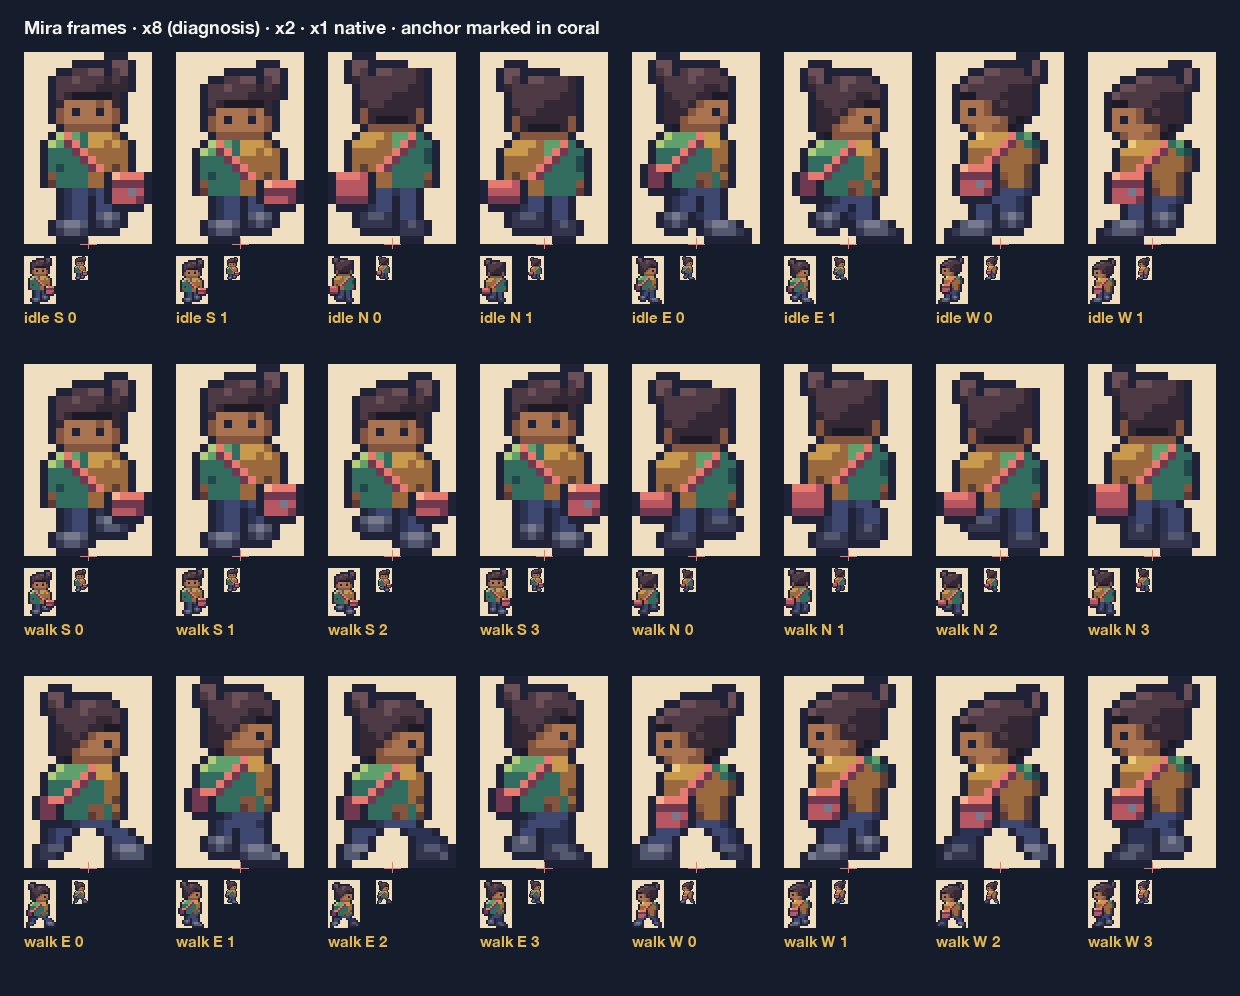
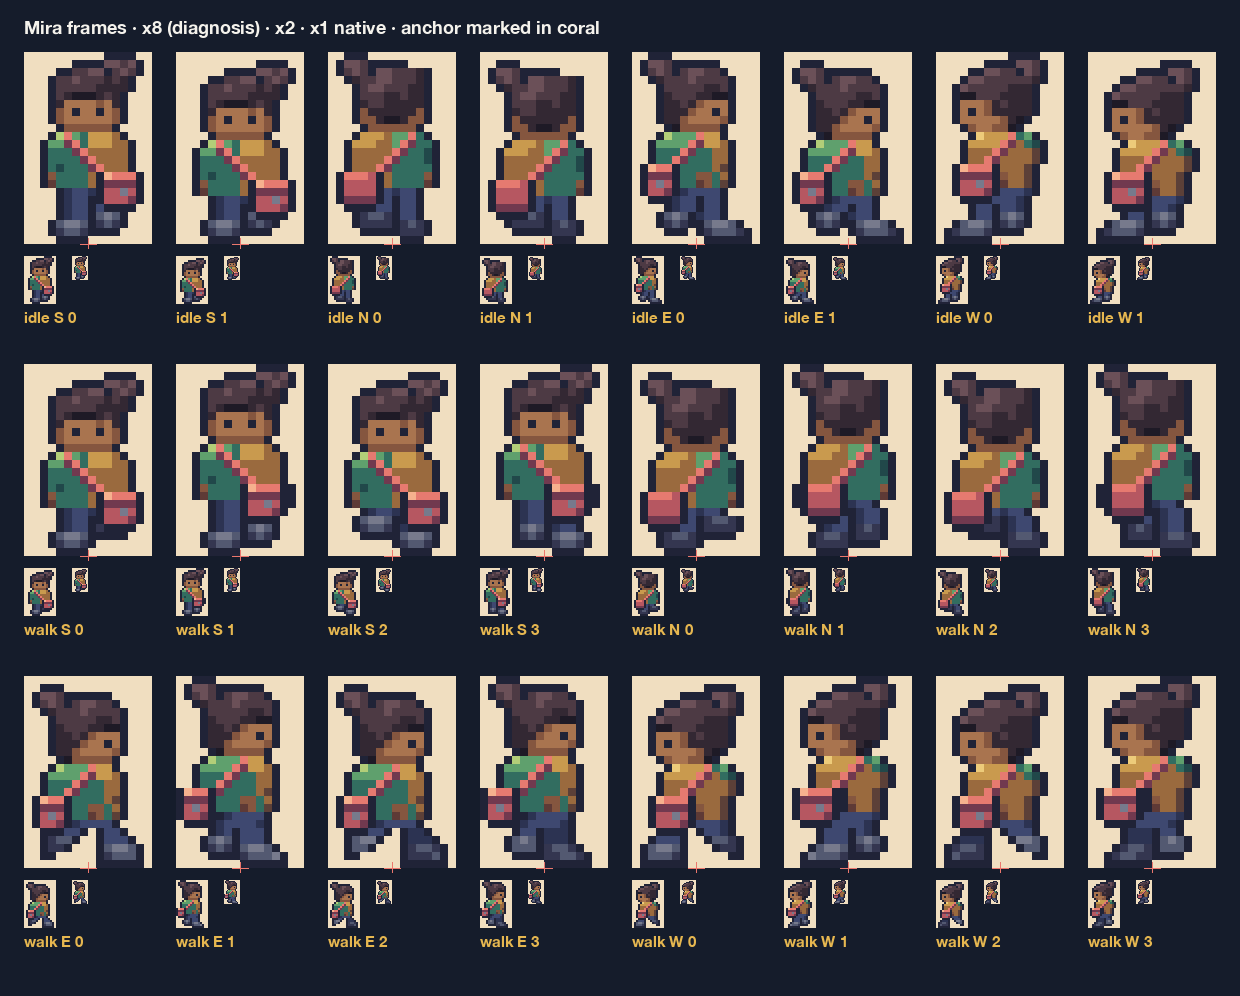
feat(art): approve Mira sprites and add production status guide

diff --git a/art-direction/cast/mira_sprites.py b/art-direction/cast/mira_sprites.py
@@ -1,6 +1,6 @@
 """Mira (courier) frames, hand-placed at 16x24 logical px.
 
-Status: REVIEW_REQUIRED. Built on the approved person rules (Gate 1 spec)
+Status: APPROVED 2026-10-02. Built on the approved person rules (Gate 1 spec)
 and the cast frame rule (IVO_SPEC.md). Spec: MIRA_SPEC.md.
 """
 import os
@@ -33,21 +33,21 @@ SLOTS = {"hair": "ABCD", "skin": "klmn", "jacket": "wxyzEFGH", "trousers": "OP"}
 # S: puff on her left (screen-right); green panel on her right (screen-left);
 # strap from her right shoulder down to the bag at her left hip (screen-right).
 S = [
-    "..........ooo...",
-    "......oooooDDo..",
-    "....ooCCDDoCDo..",
+    "..........oooo..",
+    "......ooooDDCDo.",
+    "....ooCCDDoCDCo.",
     "...oCCDCCCBCBo..",
     "...oCCCCCBBBBo..",
-    "...oCBAAAAABo...",
+    "...oCBAAABCBo...",
     "...oBnnnnmnBo...",
     "...omnonnonmo...",
     "...omnnnnnnmo...",
     "....ommmmmmo....",
     "...oHeGFyyyxo...",
-    "..oHGdeFyyxyxo..",
+    "..oGGdeFyyyxxo..",
     "..oGGFdeyyxyxo..",
     "..oGFFFdeyxyxo..",
-    "..oFEFFFdexwxo..",
+    "..oFEFFFdexxxo..",
     "..omFFFFxxoeffo.",
     "..olFFFFxxodeeo.",
     "....oOPPOPocddo.",
@@ -62,21 +62,21 @@ S = [
 # N: puff at screen-left; green panel at screen-right; strap's back runs from
 # screen-right shoulder to the bag at screen-left hip.
 N = [
-    "...ooo..........",
-    "..oDDooooo......",
-    "..oDCoDDCCCBo...",
-    "..oBCCCCCCCBo...",
-    "...oCCCCCCBBo...",
-    "...oCCCCBBBBo...",
+    "..ooo...........",
+    ".oDDCooooo......",
+    ".oCDCoDDCCCBo...",
+    "..oBCCDDCCCBo...",
+    "...oCDDCCCBBo...",
+    "...oCCCBBCBBo...",
     "...oBCCBBBBBo...",
     "...omBBBBBBmo...",
-    "...omBAAAABmo...",
+    "...ommBAABmmo...",
     "....ommmmmmo....",
     "...oyyyxGGeFo...",
     "..oyyyxxGedFFo..",
     "..oyyxxxedGFEo..",
     "..oyxxxedFFFEo..",
-    "..oxwxedFFFFFo..",
+    "..oxxxedFFFFFo..",
     ".oeffoxxFFFFmo..",
     ".oeedoxxFFFFlo..",
     ".oddcoPPOPPo....",
@@ -91,9 +91,9 @@ N = [
 # E: head 1 px ahead of the body (the lean); green near flank and sleeve;
 # strap from the near shoulder back to the bag on the far hip, showing behind.
 E = [
-    "...ooo..........",
-    "..oDDoooooo.....",
-    "..oCDoCDDCCo....",
+    "..ooo...........",
+    ".oDDCoooooo.....",
+    ".oCDCoCDDCCo....",
     "..oBCCCDCCCCo...",
     "...oCCCCCBBCo...",
     "...oBCCCBBAAo...",
@@ -102,7 +102,7 @@ E = [
     "...oBBmnnnnmo...",
     "....oAmmmmmo....",
     "...oHGGGeyyo....",
-    "..oHGGGedyyxo...",
+    "..oGGGGedyyxo...",
     "..oGGGedFFyxo...",
     "..oGGedGFFyxo...",
     ".oceedGGFFxwo...",
@@ -120,9 +120,9 @@ E = [
 # W: head 1 px ahead (left); ochre near flank; bag on the near hip, forward of
 # the body edge; strap from the far shoulder down across the chest to the bag.
 W = [
-    "..........ooo...",
-    "......ooooooDo..",
-    "....ooDDCCCoDo..",
+    ".........oooo...",
+    "......ooooDDCo..",
+    "....ooDDCCoDCo..",
     "...oDDCCCCCCBo..",
     "..oDCCCCCBBBo...",
     "..oAACCCBBBBo...",
@@ -150,81 +150,80 @@ W = [
 # line, a buckle, a #B65761 body (never the marker coral), a lit lip.
 BAG_FRONT = ["ofeeeo", "occcco", "oddUdo", "odddco", ".oooo."]
 BAG_BACK = ["oeeedo", "oddddo", "oddddo", "occcco", ".oooo."]
+BAG_SIDE = ["ofeeo", "occco", "odUdo", "oddco", ".ooo."]   # far hip, behind the body
+# facing: (top row, rest column, swing dx on passing frames, art)
 BAGS = {
-    "s": (15, 10, BAG_FRONT),   # her left hip, screen-right
-    "n": (15, 0, BAG_BACK),     # her left hip seen from behind, screen-left
-    "w": (14, 2, BAG_FRONT),    # near hip, forward of the body edge
-}  # "e": the bag is on the far hip, drawn behind the body in the grid
+    "s": (15, 9, -1, BAG_FRONT),   # her left hip, screen-right; swings in toward her
+    "n": (15, 1, 1, BAG_BACK),     # her left hip from behind, screen-left
+    "e": (14, 1, -1, BAG_SIDE),    # far hip, trailing behind her back
+    "w": (14, 2, -1, BAG_FRONT),   # near hip, forward of the body edge
+}
+GLINT_LIMITS = {"z": 1, "H": 1, "f": 1}  # enforced by check_gate1.py
 
 
-def finish(frame, facing):
+def lower(frame):
+    """1 px settle: head and torso down, dropping the top leg row. The bag is
+    painted afterwards at the same 1 px offset, so it never changes shape."""
+    return ["." * 16] + frame[0:18] + frame[19:24]
+
+
+def finish(frame, facing, dy=0, swing=False):
     """Panel fills step down away from the lit shoulder, the strap shadow is the
-    coral contour step, and the bag is painted on top."""
+    coral contour step, and the bag is painted on top (offset by dy, swung by 1 px)."""
     out = []
     for y, row in enumerate(frame):
-        if 12 <= y <= 17:
+        if 12 + dy <= y <= 17 + dy:
             row = row.replace("y", "x").replace("G", "F")
-        if 10 <= y <= 17:
+        if 10 + dy <= y <= 17 + dy:
             row = row.replace("d", "c")
         out.append(row)
-    if facing in BAGS:
-        r0, c0, bag = BAGS[facing]
-        for i, line in enumerate(bag):
-            row = list(out[r0 + i])
-            for j, ch in enumerate(line):
-                if ch != ".":
-                    row[c0 + j] = ch
-            out[r0 + i] = "".join(row)
+    r0, c0, dx, bag = BAGS[facing]
+    c0 += dx if swing else 0
+    for i, line in enumerate(bag):
+        row = list(out[r0 + dy + i])
+        for j, ch in enumerate(line):
+            if ch != ".":
+                row[c0 + j] = ch
+        out[r0 + dy + i] = "".join(row)
     return out
 
 
-# Longer side-view stride than the shared poses (feet one column further apart).
+# Mira's energy in the side walk comes from the trailing heel lifting off; the
+# stride stays inside the approved Gate 1 overhead limit (columns 2-14).
 STRIDE_C0 = [
     "....oOPPoPPPo...",
-    "..oOPPo..oPPPo..",
-    "..oOPo....oPPPo.",
-    ".oSTTo....oTUUTo",
-    ".oSSo.....oSTTTo",
-    ".oo.......oooooo",
+    "...oOPPo.oPPo...",
+    "..oSTTo..oPPPo..",
+    "..oSSo...oTUUTo.",
+    "..oo.....oSTTTo.",
+    ".........oooooo.",
 ]
 STRIDE_C2 = [
     "....oPPPoOOOo...",
-    "..oPPPo..oOOOo..",
-    "..oPPo....oOOOo.",
-    ".oTUUo....oSTTSo",
-    ".oTTo.....oSSSTo",
-    ".oo.......oooooo",
+    "...oPPPo.oOOo...",
+    "..oTUUo..oOOOo..",
+    "..oTTo...oSTTSo.",
+    "..oo.....oSSSTo.",
+    ".........oooooo.",
 ]
 SIDE = (STRIDE_C0, eng.LEG_P1, STRIDE_C2, eng.LEG_P3)
 
 
-def lower_front(frame):
-    """S/N settle: head and torso down 1 px, dropping row 17 (legs keep the bag's base row)."""
-    return ["." * 16] + frame[0:17] + frame[18:24]
-
-
-def lower_side(frame):
-    """E/W settle: keep row 17 (the bag's base), drop the top leg row instead."""
-    return ["." * 16] + frame[0:18] + frame[19:24]
-
-
-def walk(base, legs, lower, facing):
+def walk(base, legs, facing):
     out = []
     for i, lg in enumerate(legs):
-        fr = finish(base[0:18] + lg, facing)
-        out.append(lower(fr) if i % 2 == 0 else fr)
+        raw = base[0:18] + lg
+        if i % 2 == 0:   # contact: 1 px lower
+            out.append(finish(lower(raw), facing, dy=1))
+        else:            # passing: the bag swings 1 px
+            out.append(finish(raw, facing, swing=True))
     return out
 
 
-IDLE = {
-    "s": [finish(S, "s"), lower_front(finish(S, "s"))],
-    "n": [finish(N, "n"), lower_front(finish(N, "n"))],
-    "e": [finish(E, "e"), lower_side(finish(E, "e"))],
-    "w": [finish(W, "w"), lower_side(finish(W, "w"))],
-}
+IDLE = {f: [finish(g, f), finish(lower(g), f, dy=1)] for f, g in (("s", S), ("n", N), ("e", E), ("w", W))}
 WALK = {
-    "s": walk(S, eng.LEGS_S, lower_front, "s"),
-    "n": walk(N, eng.LEGS_N, lower_front, "n"),
-    "e": walk(E, SIDE, lower_side, "e"),
-    "w": walk(W, [[r[::-1] for r in lg] for lg in SIDE], lower_side, "w"),
+    "s": walk(S, eng.LEGS_S, "s"),
+    "n": walk(N, eng.LEGS_N, "n"),
+    "e": walk(E, SIDE, "e"),
+    "w": walk(W, [[r[::-1] for r in lg] for lg in SIDE], "w"),
 }

diff --git a/art-direction/gate1/check_gate1.py b/art-direction/gate1/check_gate1.py
@@ -53,6 +53,12 @@ for name, fr in frames.items():
                          for dy, dx in ((1, 0), (-1, 0), (0, 1), (0, -1)))]
         if touch:
             fails.append(f"{name}: light hair touches skin at {touch[:4]}")
+    for key, limit in getattr(eng, "GLINT_LIMITS", {}).items():
+        n = sum(r.count(key) for r in fr)
+        if n > limit:
+            fails.append(f"{name}: {n} px of glint key {key!r} (limit {limit})")
+    if name.startswith("walk_") and any(r[0] != "." or r[15] != "." for r in fr[18:]):
+        fails.append(f"{name}: stride touches the frame edge (Gate 1 overhead limit)")
     used = {eng.PAL[ch] for r in fr for ch in r if ch != "."}
     if used & MARKERS:
         fails.append(f"{name}: UI marker hex {used & MARKERS}")

diff --git a/art-direction/cast/MIRA_SPEC.md b/art-direction/cast/MIRA_SPEC.md
@@ -1,6 +1,6 @@
 # Mira — sprite specification (idle ×4, walk ×4)
 
-**Status:** REVIEW_REQUIRED. The player reviews this set.
+**Status:** APPROVED 2026-10-02 by the art director, under the player's standing delegation to self-review and approve. The Director decisions below are canon for Mira.
 
 **Sources:** `design/characters/mira.md`, `design/characters/README.md`, `levels.md` (cast table and Mira routes), STYLE_BIBLE §3–7. The shared person rules come from the approved [Gate 1 spec](../gate1/GATE1_ENGINEER_SPEC.md): frame, anchor, idle and walk timing, the contour-only darkest step, and the renderer-drawn shadow. The cast frame rule comes from the approved [Ivo spec](IVO_SPEC.md). **Director decision** marks choices made under the art-direction authority the player delegated.
 
@@ -13,6 +13,7 @@
 | `mira-walks.gif` | The four walk cycles looping at ×6 |
 | `mira-atlas.png` / `.json` | Native atlas. Rows S N E W idle, then S N E W walk. |
 | `mira-in-room.png` | Mira at the mail counter in the review room, at ×4 |
+| `mira-clear-floor.png` | Every facing plus walk contacts on open floor, with no counter hiding the bag or feet |
 
 Rebuild with `python3 build_cast.py mira`. Check with `python3 ../gate1/check_gate1.py mira_sprites`.
 
@@ -24,7 +25,7 @@ Rebuild with `python3 build_cast.py mira`. Check with `python3 ../gate1/check_ga
 | Torso | teal jacket | broad terracotta cardigan | a two-panel jacket: green on her right side and sleeve, ochre on the main panel |
 | Prop | optional badge | tablet held flat | coral strap from her right shoulder to a buckled coral bag on her left hip |
 | Posture | asymmetric stance | level stance | leans into her facing direction: the head sits 1 px ahead of the body in E and W, and her feet are staggered |
-| Walk | shared stride | shared stride, arms still | a longer side-view stride (contacts one column wider) with the same 4 × 133 ms timing |
+| Walk | shared stride | shared stride, arms still | the shared overhead stride with her trailing heel lifting off on contacts, and a 1 px bag swing |
 
 ## Director decisions
 
@@ -35,7 +36,10 @@ Rebuild with `python3 build_cast.py mira`. Check with `python3 ../gate1/check_ga
    - It is drawn once per facing and painted onto every frame.
    - Its parts are a `#E67A70` lit lip with one `#F6B18E` glint, a `#71394F` flap line, an ink buckle (`#777A8C`), a `#B65761` body and a dark frame.
    - The body never uses `#E67A70`, which matches the conversation marker, the coral chairs and the counter's strap.
-   - Facing S it is on the screen-right hip. Facing N you see its back on the screen-left hip. Facing W it is on the near hip, forward of the body edge. Facing E it is on the far hip, showing behind her back.
+   - Facing S it is on the screen-right hip. Facing N you see its back on the screen-left hip. Facing W it is on the near hip, forward of the body edge. Facing E it is on the far hip, showing behind her back as the same bag at 5×5.
+   - On contacts and the idle settle the bag moves down with her body as a whole, so it never changes shape.
+   - On passing frames it swings 1 px: inward in S and N, backward in E and W. This implements mira.md's "bag swings 1 px" and keeps the stride rule.
+   - Reference 08's courier carries an orange bag on screen-right seen from behind. mira.md's text (left hip, coral) is followed. The reference is a concept, not a frame source.
 5. **Coral is hers.** Coral appears only on the bag and strap. Her shoes use the ink ramp, which resolves mira.md assumption 2. This does not limit the colours of her future patches.
 6. **Strap.** A 1 px `#E67A70` diagonal runs from her right shoulder to the bag, with a `#71394F` shadow step on its lower-right side. It crosses only the mid-dark panel steps, `#9A6A3E` and `#326D60`, so it stays clear.
 7. **Panel tones.**
@@ -46,7 +50,7 @@ Rebuild with `python3 build_cast.py mira`. Check with `python3 ../gate1/check_ga
    - The fringe underside is the darkest hair step, which acts as the hair-shadow line.
    - Her eyes sit on `#A9744F`.
    - There is no shadow row at the chin. One was tried and rejected because it read as a beard at ×4.
-9. **Bob.** S and N drop row 17. E and W drop the top leg row, so the bag's base row survives the settle.
+9. **Bob and stride.** Every facing's settle drops the top leg row. The side walk stays inside the approved Gate 1 overhead limit (the feet never touch columns 0 or 15). This overrides mira.md's "longer step", because the approved overhead-camera rule outranks the brief. Her extra energy comes from the trailing heel lifting off the floor on contact frames. `check_gate1.py` now enforces the stride edge and her glint limits (`GLINT_LIMITS`).
 10. **Patches.** The base set has none, because the first patch is earned after level 02. The six patch designs stay open. Patches will be 1–2 px clusters on the bag flap and the jacket, added as states.
 11. **Room.** The slate planter that crowded her hair puff moved from (278,126) to (238,126).
 12. **Scope.** This round is idle ×4 and walk ×4. Interact, reactions, patches and the Night Shift strap exception (mira.md open question 2) come later.
@@ -59,6 +63,8 @@ Automated (`check_gate1.py mira_sprites`):
 - [x] Head rows use only hair, skin and outline keys
 - [x] The darkest hair step appears only on contour and occlusion edges
 
+Review history: two specialist reviews (character, style), then continuity cycle 1. It failed on five points: the green glint on 2 px, a dark unreadable E bag, a bag deformed by the bob, a stride wider than the Gate 1 limit, and the missing bag swing. Polish items were a flat N hair dome and weak puffs. All were fixed in cycle 2, and the coordinator review passed.
+
 Coordinator review:
 - [x] Reads as a different person from the Engineer and Ivo at 1× and at ×4
 - [x] Bag on her left hip in every facing, drawn separately for E and W, with a flap line and buckle
@@ -67,4 +73,4 @@ Coordinator review:
 - [x] Distinct from the mail counter, the planter and the coral chairs in the room
 
 Player:
-- [ ] Mira reviewed in the room and on the sheet
+- [x] Approved 2026-10-02 (self-review under the player's delegation)

diff --git a/art-direction/PRODUCTION_STATUS.md b/art-direction/PRODUCTION_STATUS.md
@@ -1,0 +1,41 @@
+# Kanata Hero — art production status
+
+This is the living handoff file. Any agent continuing the art work should read this first, then [STYLE_BIBLE.md](STYLE_BIBLE.md) and the approved specs listed below. Update it after every approval.
+
+**Authority.** Since 2026-10-02 the player has delegated every art-direction decision and gate approval to the art director. The director self-reviews: automated checks, then a coordinator review, plus a Sonnet validator pass when useful. When the review passes, the director approves, records the result, and moves on. Never mark something approved unless its review passed.
+
+**Goal.** Finish the game's art design and hand it off as assets and documentation that developer agents can build from.
+
+## How the pipeline works
+
+1. Read the brief in `design/characters/<name>.md`, or the relevant district section of `levels.md` and `docs/game-design.md`.
+2. Optionally get specialist reviews (character, style). Then decide the open points and record them as Director decisions in the asset spec.
+3. Hand-place pixels as key grids in a `*_sprites.py` module: `PAL`, `SLOTS`, `IDLE`, `WALK`, and optionally `GLINT_LIMITS` and `HAIR_SKIN_SEPARATED`. Shared leg poses and `lower()` live in `gate1/engineer_sprites.py`.
+4. Check with `python3 art-direction/gate1/check_gate1.py <module>`. It tests frame size, row 23, anchor balance, marker colours and violet, the teal saturation limit, head keys, the contour-only darkest step, hair against skin, glint counts and the stride edge.
+5. Build:
+   - `cd art-direction/cast && python3 build_cast.py <name>` writes the sheet, the atlas PNG and JSON, and the walk GIF.
+   - `cd art-direction/gate1 && python3 build_gate1.py` writes the review room.
+6. Review the renders at ×8 and in the room at ×4, fix what fails, write `<NAME>_SPEC.md`, and record the decisions in the brief and the README decisions log.
+
+**Python environment.** The scripts need Pillow and numpy. This session used a throwaway virtualenv. Recreate it with `python3 -m venv .venv && .venv/bin/pip install pillow numpy`.
+
+## Approved
+
+| Asset | Spec | Pixels | Approved |
+| --- | --- | --- | --- |
+| Style foundation (scale, palette, rules) | STYLE_BIBLE.md, README decisions | — | 2026-10-01 |
+| Engineer: idle ×4, walk ×4 | [gate1/GATE1_ENGINEER_SPEC.md](gate1/GATE1_ENGINEER_SPEC.md) | gate1/engineer_sprites.py | 2026-10-02 (player) |
+| Orientation review room, the environment quality bar | gate1 spec, "Scene" | gate1/environment.py | 2026-10-02 (player) |
+| Ivo: idle ×4, walk ×4 | [cast/IVO_SPEC.md](cast/IVO_SPEC.md) | cast/ivo_sprites.py | 2026-10-02 (player) |
+| Mira: idle ×4, walk ×4 | [cast/MIRA_SPEC.md](cast/MIRA_SPEC.md) | cast/mira_sprites.py | 2026-10-02 (director) |
+
+## Plan
+
+The plan is tracked OpenSpec-style in [`production/`](production/): [proposal.md](production/proposal.md) (why and what), [design.md](production/design.md) (cross-cutting decisions) and [tasks.md](production/tasks.md) (numbered checkboxes). Tick a task only when its review has passed and its decision records are written. Work the first unticked task unless a dependency says otherwise.
+
+## Carry-forward lessons (player feedback)
+
+- Small props must read as what they are: give them a bezel or frame, a lit face, a detail, and a hand on them where it fits. This came from Ivo's tablet.
+- Hair must never read as a helmet: tufts and strand clusters, an uneven fringe, and ears or nape showing. Never a flat rim line. This came from Ivo.
+- Doors must read as doors: an opening you can see through or a sliding glass door, a frame, lamps, and a lit mat with lettering. This came from the review room.
+- Match the finish and density of reference 08, not the sparse scale-test.

diff --git a/art-direction/gate1/GATE1_ENGINEER_SPEC.md b/art-direction/gate1/GATE1_ENGINEER_SPEC.md
@@ -52,7 +52,7 @@ The key layout, silhouette, anchor, timing and shadow never change with customiz
 
 ## Scene (Gate 1 composition)
 
-This is the scale-test Orientation layout at 16 px and ×4 on 1366×768 (1280×720 letterboxed). The Engineer stands, then walks, on a **lit two-cell route**. The route runs between the east desk's chair and the bench, ending at the **Records door** in the east wall. The door has jambs, parked glass leaves and a brass threshold, and the floor brightens in steps as it nears the door. The **terminal** is the printer and its teal marker. The **NPC** is Ivo with a talk marker. The **keyboard inset** is open and teaches Caps + L → Right arrow → Step east, which is the step shown in the walk. The room itself is redrawn in `environment.py` to the finish of reference 08, using palette pixels only (audited: zero off-palette colours). It has running-bond stone slabs, a filled inlay band around the garden ring, wall caps with lit glass trim, and glass bays with stepped reflections. The Records door is a sliding glass door in a brass frame in the east wall. Its two framed panels meet at a centre seam and slide into pockets behind the jambs. It is shown closed in the still and slides open over the last four walk frames in the GIF. Records' sea-blue floor and a filing cabinet show through the glass. A folder sign sits on the lintel with a lamp on each side, and the brass mat in front carries inlaid RECORDS lettering and an arrow pointing at the door. The garden landmark has a stone rim, tree, stream, rocks and edge flowers, with three lamps; the fourth corner sits under the inset and is omitted. The room is also dressed with slate planters, desks with monitors and chairs, a bench, a sofa and a side table, all kept off the route. Ivo and Mira are scale-test placeholders and are context only. The 32 px comparison is retired and not rebuilt.
+This is the scale-test Orientation layout at 16 px and ×4 on 1366×768 (1280×720 letterboxed). The Engineer stands, then walks, on a **lit two-cell route**. The route runs between the east desk's chair and the bench, ending at the **Records door** in the east wall. The door has jambs, parked glass leaves and a brass threshold, and the floor brightens in steps as it nears the door. The **terminal** is the printer and its teal marker. The **NPC** is Ivo with a talk marker. The **keyboard inset** is open and teaches Caps + L → Right arrow → Step east, which is the step shown in the walk. The room itself is redrawn in `environment.py` to the finish of reference 08, using palette pixels only (audited: zero off-palette colours). It has running-bond stone slabs, a filled inlay band around the garden ring, wall caps with lit glass trim, and glass bays with stepped reflections. The Records door is a sliding glass door in a brass frame in the east wall. Its two framed panels meet at a centre seam and slide into pockets behind the jambs. It is shown closed in the still and slides open over the last four walk frames in the GIF. Records' sea-blue floor and a filing cabinet show through the glass. A folder sign sits on the lintel with a lamp on each side, and the brass mat in front carries inlaid RECORDS lettering and an arrow pointing at the door. The garden landmark has a stone rim, tree, stream, rocks and edge flowers, with three lamps; the fourth corner sits under the inset and is omitted. The room is also dressed with slate planters, desks with monitors and chairs, a bench, a sofa and a side table, all kept off the route. Ivo and Mira now use their approved cast sprites (`art-direction/cast/`). The 32 px comparison is retired and not rebuilt.
 
 ## Acceptance criteria
 

diff --git a/README.md b/README.md
@@ -26,13 +26,16 @@ When documents disagree, the owner below wins. Fix the other document instead of
 
 ## Decisions
 
+**Production in progress:** see [`art-direction/PRODUCTION_STATUS.md`](art-direction/PRODUCTION_STATUS.md) for the plan, what is done, and how to continue. Since 2026-10-02 the player has delegated gate approvals to the art director, who self-reviews and approves.
+
+
 - **Scale (decided 2026-10-01):** 16×16 tiles, 16×24 people, 48×48 portraits, a 320×180 view scaled by whole numbers (×4 on 1366×768, ×6 on 1920×1080). Chosen by the player from [`art-direction/scale-test/`](art-direction/scale-test/). Recorded in the game spec, `levels.md`, the style bible, style board, and art brief.
 - **Clothing vs. interaction markers (decided 2026-10-01):** muted teal is allowed on clothing (hue 160°–200° steps at or below 60% HSL saturation, never a marker hex); no person wears violet. Recorded in STYLE_BIBLE §3, the character README, and `engineer.md`.
 - **Gate 1 animation contract (decided 2026-10-01):** anchor on the pixel edge between columns 7 and 8, feet on row 23; walk 4 frames × 133 ms per direction, 2 cells per cycle; idle 2 frames × 500 ms. Recorded in STYLE_BIBLE §5; may be revised after the gate.
 - **Style foundation reconciliation (2026-10-01):** `REFERENCE_NOTES.md` no longer carries 32×32 / 48×64 sizes or its old gate; `docs/game-design.md` now matches the bible on selective outlines, hard-edged light, and draw order.
 - **Engineer Gate 1 candidate (2026-10-01):** hand-placed frames, scene and sheets in [`art-direction/gate1/`](art-direction/gate1/GATE1_ENGINEER_SPEC.md). The spec lists its Director decisions: hair sweep side, badge visibility, idle and walk motion, foot offset, contact-shadow shape, tone rule, and color-only hair customization. **Approved by the player 2026-10-02.** Its Director decisions are canon, and the review room in `environment.py` (08-finish floor, walls, garden, sliding glass Records door with a RECORDS mat) is the environment quality bar. Other characters may now start, one at a time, through the same review workflow.
 - **Cast frame rule (decided 2026-10-02):** every person sprite stays inside 16×24, and props are held against the body, never overhanging. **Ivo** idle ×4 and walk ×4 were built under the Gate 1 contract (`art-direction/cast/IVO_SPEC.md`) and were **approved by the player 2026-10-02**, after a revision that made the tablet a bezelled device held flat and took the helmet look out of the hair.
-- **Mira** idle ×4 and walk ×4 were built 2026-10-02 (`art-direction/cast/MIRA_SPEC.md`) and are awaiting player review. All three Orientation people in the review room now use hand-placed cast sprites.
+- **Mira** idle ×4 and walk ×4 were built and **approved 2026-10-02** (`art-direction/cast/MIRA_SPEC.md`). All three Orientation people in the review room now use hand-placed cast sprites.
 - **Old art drafts discarded** by the player. They stay on disk until moved to the Trash; nothing may reference them.
 
 ## Open decisions

diff --git a/design/characters/mira.md b/design/characters/mira.md
@@ -1,6 +1,6 @@
 # Mira — courier
 
-**Status:** idle ×4 and walk ×4 built 2026-10-02, awaiting player review: [`art-direction/cast/MIRA_SPEC.md`](../../art-direction/cast/MIRA_SPEC.md). Shared rules: [README](README.md).
+**Status:** idle ×4 and walk ×4 **APPROVED 2026-10-02**: [`art-direction/cast/MIRA_SPEC.md`](../../art-direction/cast/MIRA_SPEC.md). Shared rules: [README](README.md).
 
 ## Identity
 
